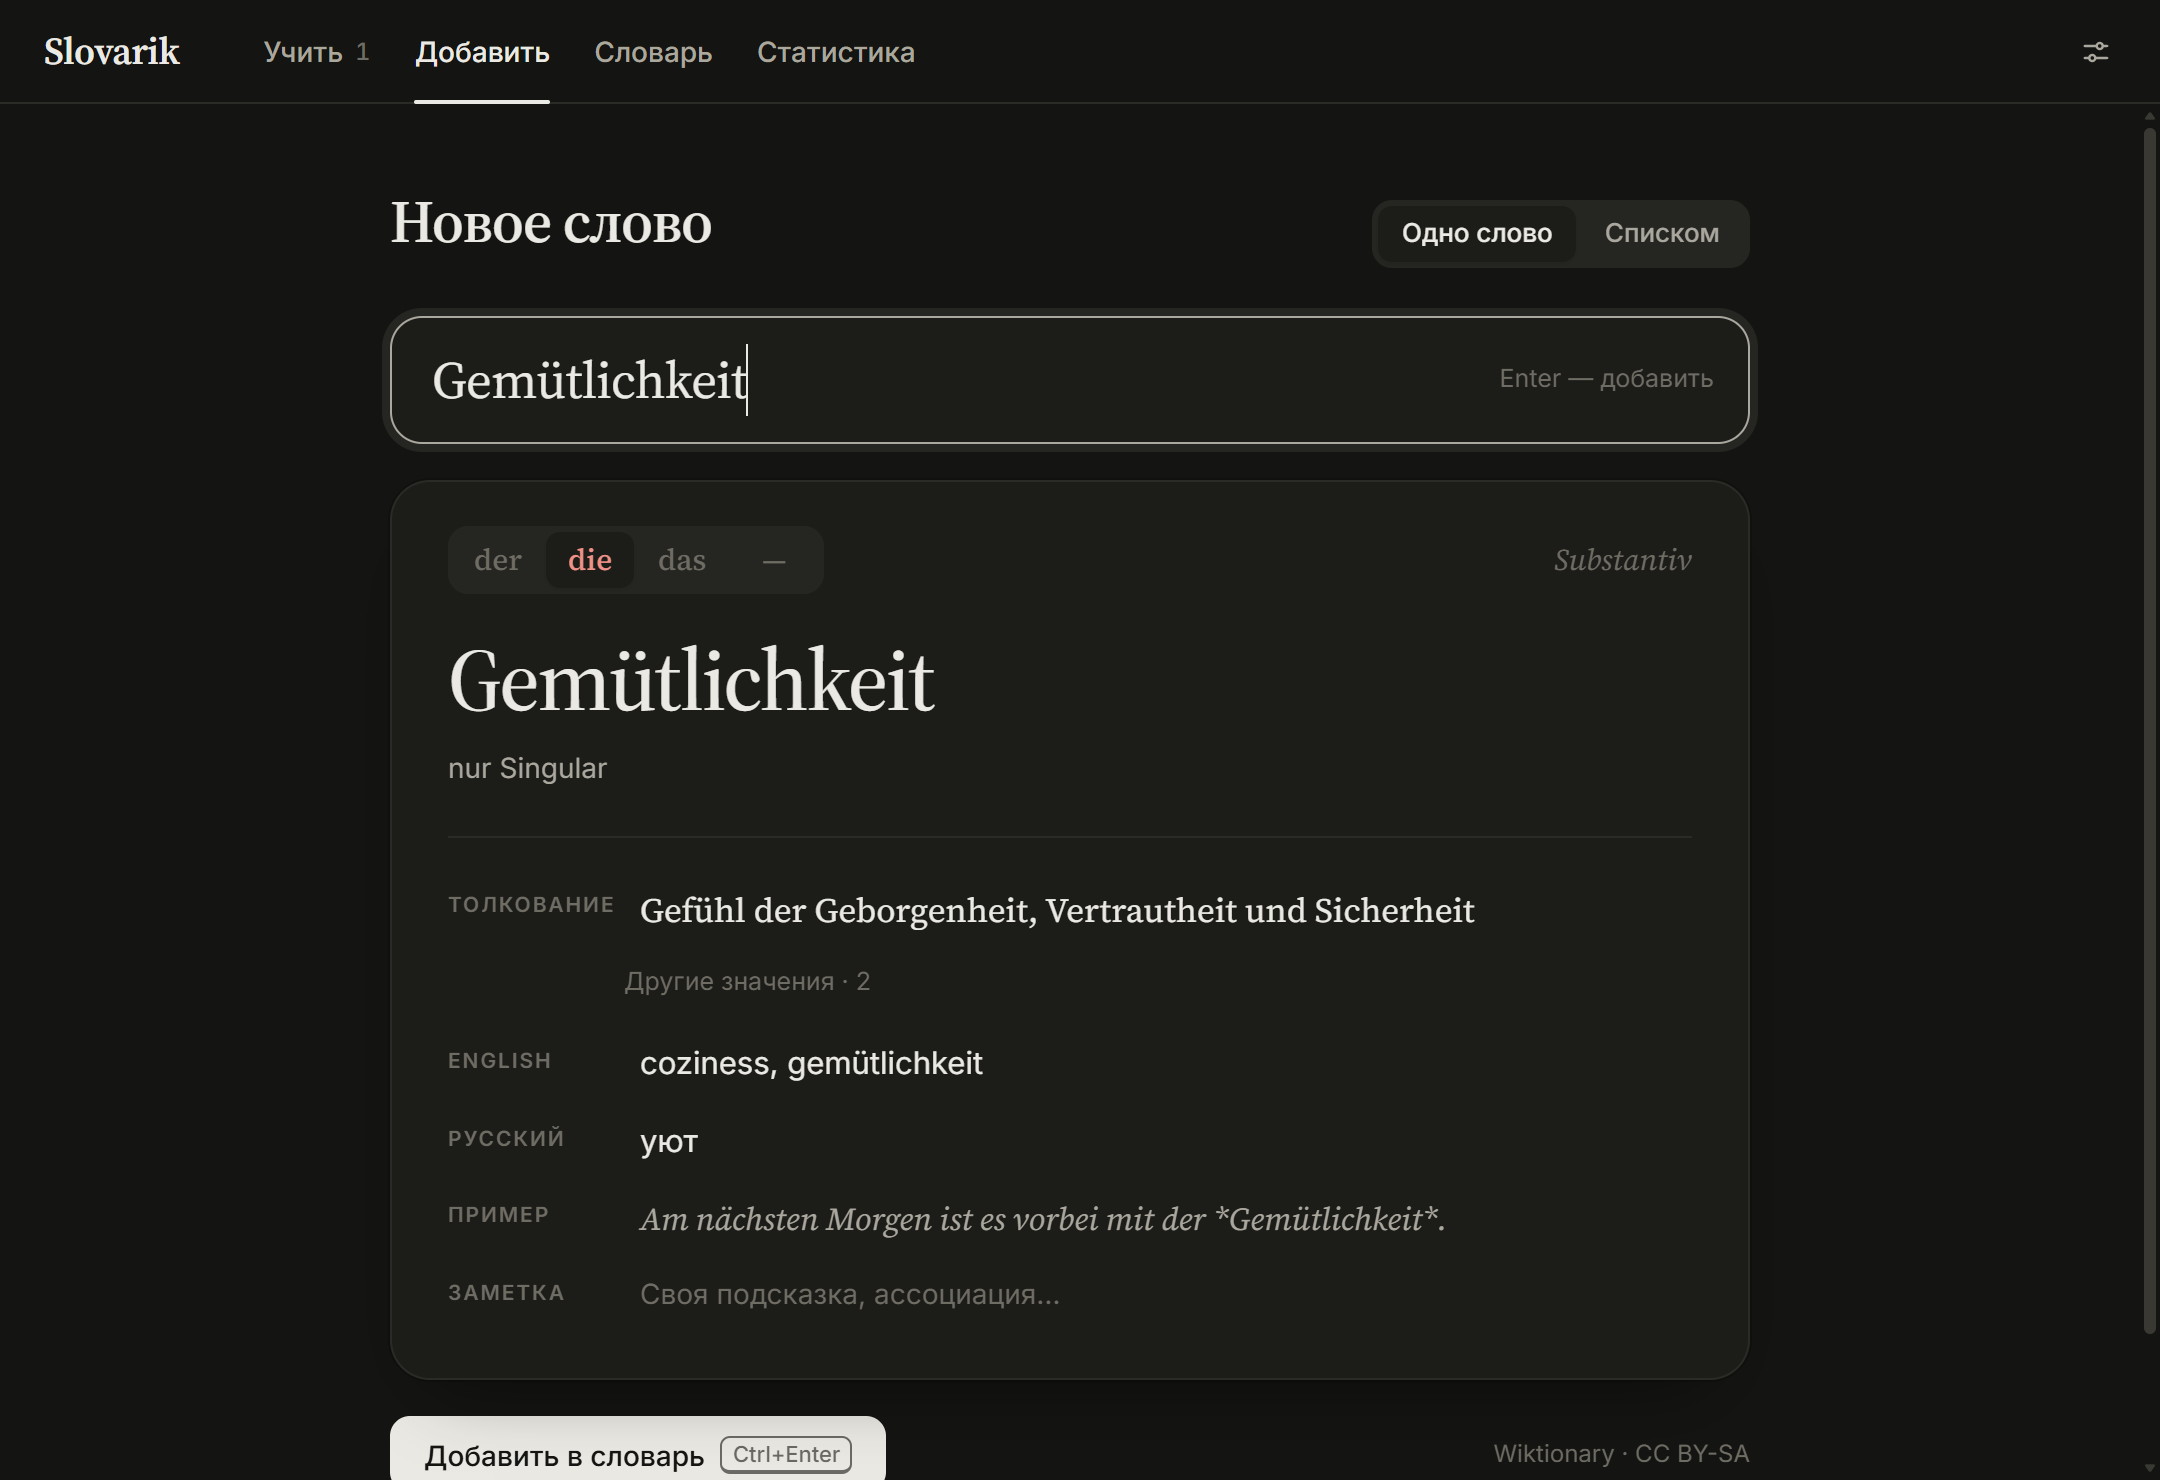
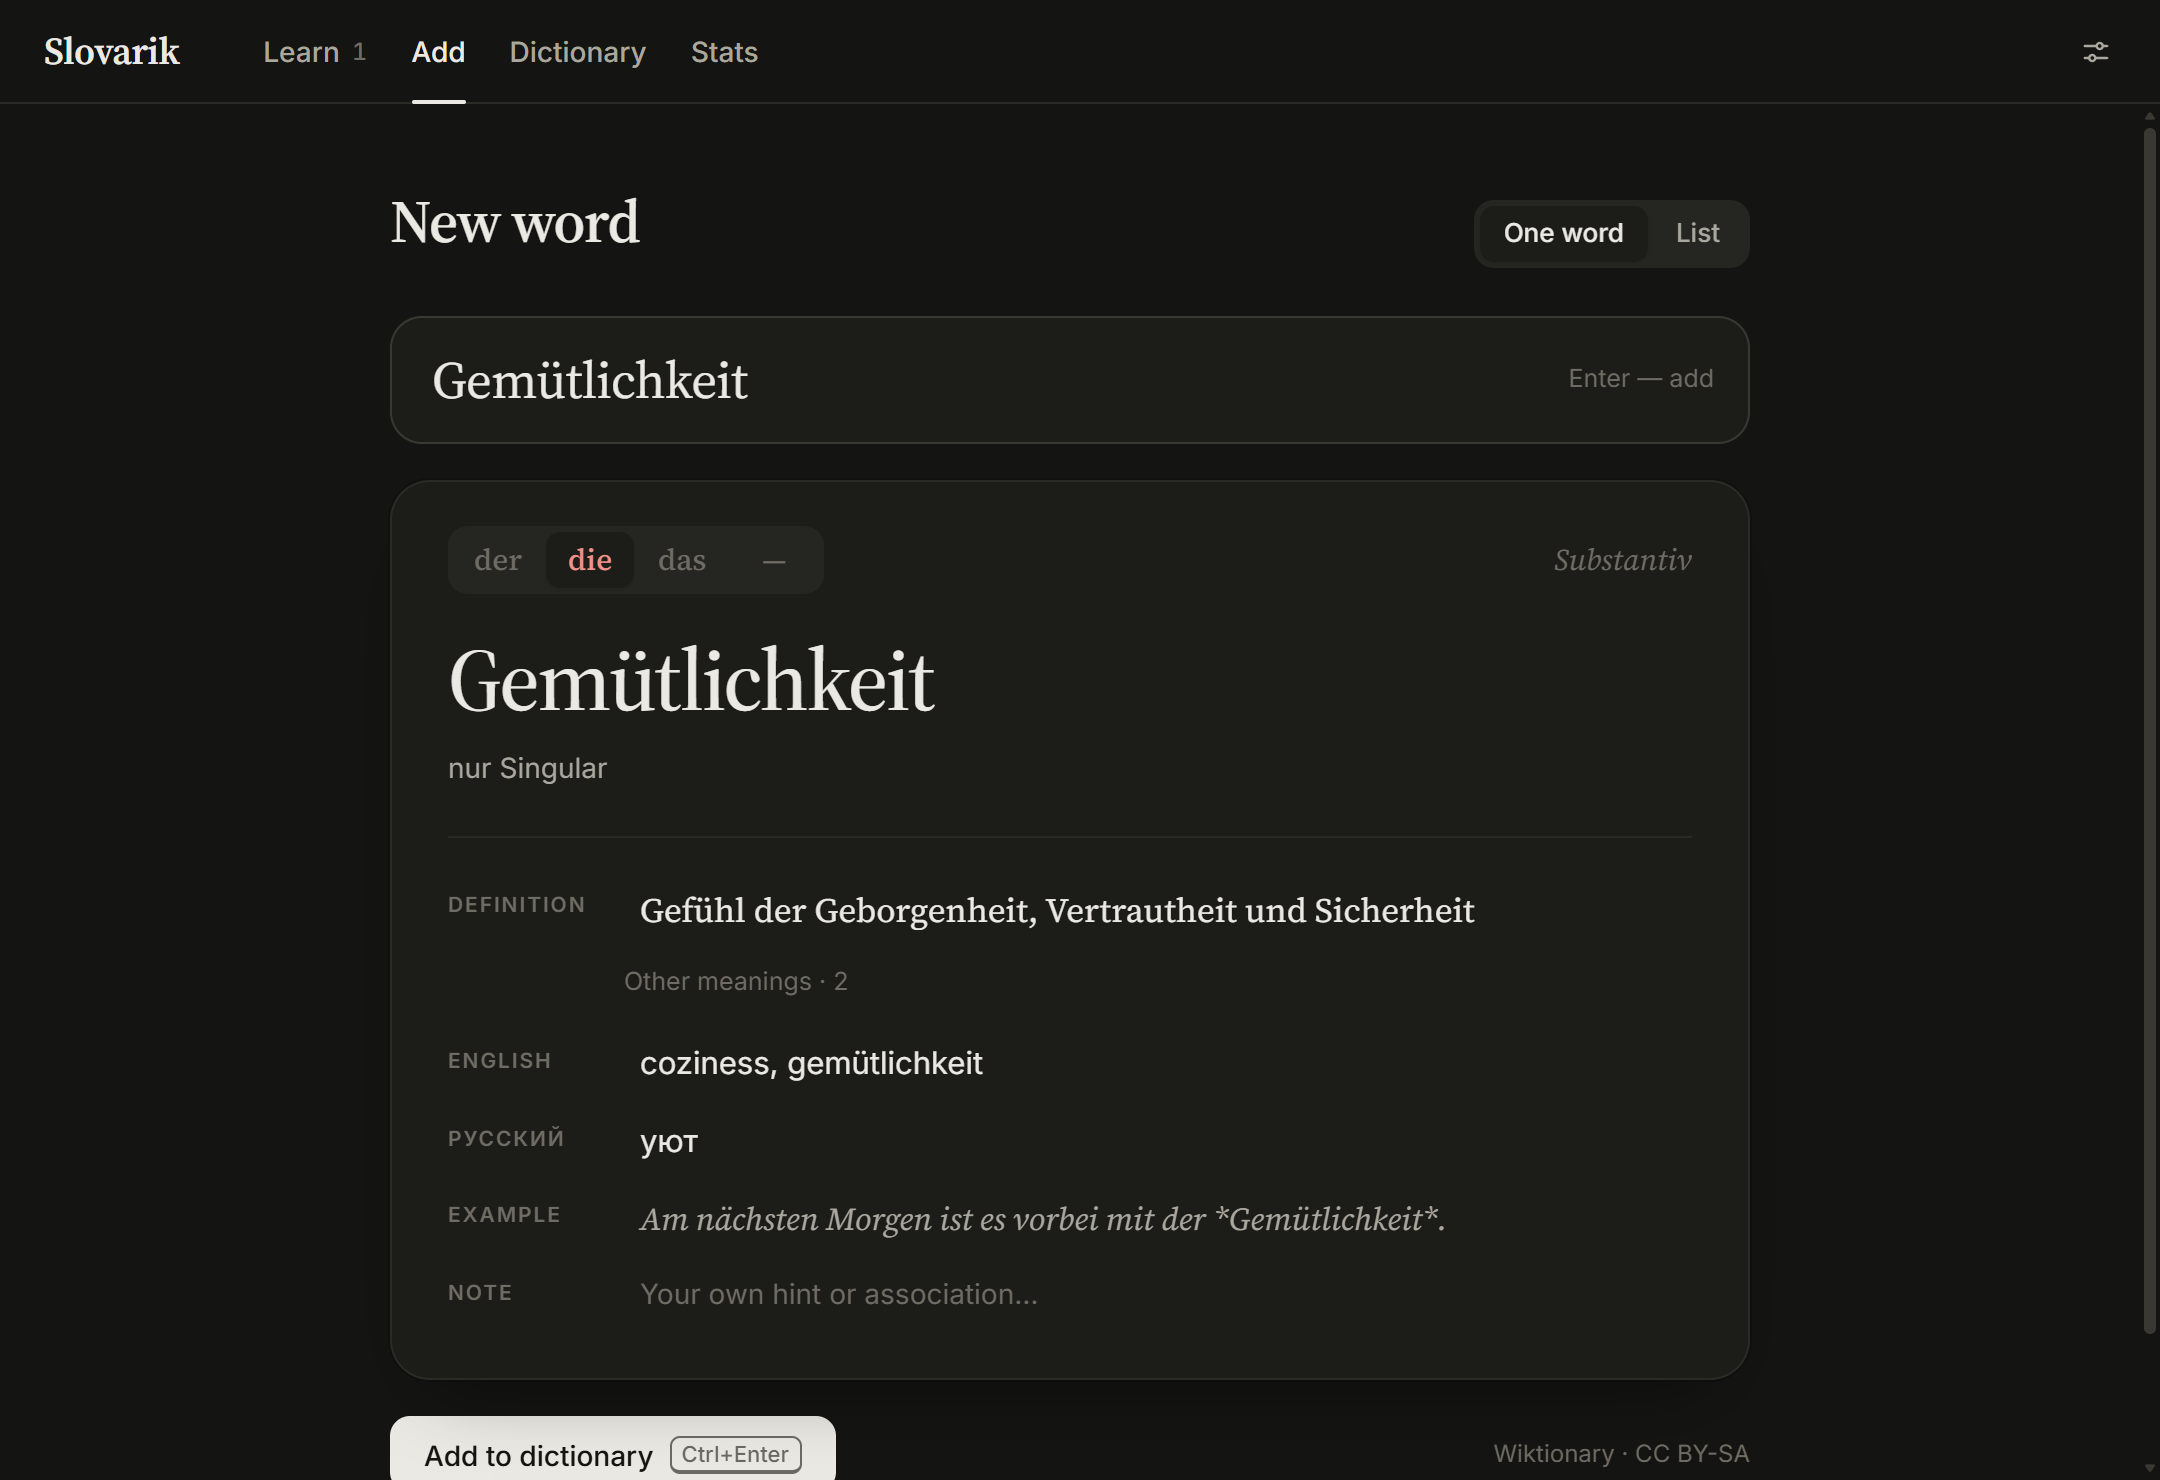
Fix Wiktionary parser on CRLF checkouts, English README
Windows CI checks the test fixtures out with CRLF line endings, which the
parser didn't expect, so the tests failed there. Normalize line endings
before parsing and keep LF in the repository via .gitattributes.

The README is now in English, with English interface screenshots.

diff --git a/src/lib/wikitext.ts b/src/lib/wikitext.ts
@@ -54,7 +54,8 @@ const POS_ALIASES: Record<string, string> = {
 };
 
 export function parsePage(text: string): ParsedPage {
-  const german = germanSection(text);
+  // Wiktionary sends \n, but pages saved on Windows come back with \r\n.
+  const german = germanSection(text.replace(/\r\n?/g, '\n'));
   if (!german) return { entries: [], baseForms: [] };
 
   const entries: Entry[] = [];

diff --git a/README.md b/README.md
@@ -1,51 +1,51 @@
 # Slovarik (Wortschätzli)
 
-Карточки для немецких слов в духе Anki. Вводишь слово — Slovarik сам подставляет толкование на немецком, артикль, формы, пример и перевод на английский и русский. Повторения планирует FSRS — тот же алгоритм, что в современной Anki.
+Anki-style flashcards for German vocabulary. Type a word and Slovarik fills in the rest: a German definition, the article, the forms, an example sentence, and English and Russian translations. Reviews are scheduled with FSRS, the same algorithm modern Anki uses.
 
-![Карточка](docs/review-light.png)
+![Review card](docs/review-light.png)
 
-## Установка
+## Install
 
-**macOS** — через Homebrew:
+**macOS** — with Homebrew:
 
 ```bash
 brew tap NellleT/slovarik https://github.com/NellleT/Slovarik
 brew install --cask slovarik
 ```
 
-**Windows** — скачай `Slovarik_*_x64-setup.exe` со страницы [релизов](https://github.com/NellleT/Slovarik/releases/latest) или поставь через [Scoop](https://scoop.sh) (Homebrew на Windows не работает):
+**Windows** — download `Slovarik_*_x64-setup.exe` from the [latest release](https://github.com/NellleT/Slovarik/releases/latest), or use [Scoop](https://scoop.sh) (Homebrew doesn't run on Windows):
 
 ```bash
 scoop bucket add slovarik https://github.com/NellleT/Slovarik
 scoop install slovarik
 ```
 
-Обновление — `brew upgrade --cask slovarik` или `scoop update slovarik`.
+Update with `brew upgrade --cask slovarik` or `scoop update slovarik`.
 
-> Приложение не подписано платным сертификатом Apple, поэтому Homebrew после установки снимает с него флаг карантина, чтобы macOS разрешила его открыть.
+> The app isn't signed with a paid Apple Developer certificate, so the Homebrew cask clears the quarantine flag after installing. Otherwise macOS would refuse to open it.
 
-## Как это работает
+## How it works
 
-- **Добавление.** Пишешь слово, при желании с артиклем («die Bank») или «sich». Данные берутся из немецкого [Wiktionary](https://de.wiktionary.org); если перевода там нет, подставляется перевод MyMemory. Всё можно поправить перед сохранением. Формы сводятся к словарной: «Häuser» → *das Haus*, «lief» → *laufen*. Можно вставить сразу столбик слов.
-- **Повторение.** Карточка показывает слово, по пробелу открывается ответ. Оцениваешь, насколько легко вспомнил: «Снова», «Трудно», «Хорошо» или «Легко» (клавиши 1–4). По этой оценке FSRS решает, когда показать слово снова: через минуты, дни или месяцы.
-- **Род по цвету:** *der* — синий, *die* — красный, *das* — зелёный. Артикль можно прятать, чтобы вспоминать его самому.
-- **Обратные карточки** (русский → немецкий), произношение системным голосом, статистика, светлая и тёмная тема.
-- **Язык интерфейса** — русский, English или Deutsch (в настройках).
-- **Данные** хранятся только на твоём компьютере, в одном файле `slovarik.json`; рядом лежит ежедневная резервная копия. Есть экспорт и импорт JSON и CSV.
+- **Adding words.** Type a word — with its article if you like (“die Bank”), or with “sich”. Everything comes from the German [Wiktionary](https://de.wiktionary.org). If Wiktionary has no translation, MyMemory fills it in. You can edit any field before saving. Inflected forms lead back to the dictionary form: “Häuser” → *das Haus*, “lief” → *laufen*. You can also paste a whole list of words at once.
+- **Reviewing.** A card shows the word; press Space to see the answer. Then rate how well you remembered it: Again, Hard, Good or Easy (keys 1–4). FSRS uses that rating to decide when you'll see the word next: in minutes, days or months.
+- **Gender by color:** *der* is blue, *die* is red, *das* is green. You can hide the article on the front of the card and recall it yourself.
+- **Also included:** reverse cards (Russian → German), pronunciation with the system voice, stats, and light and dark themes.
+- **Interface language:** English, Deutsch or Русский — switch it in Settings.
+- **Your data stays on your computer**, in a single `slovarik.json` file with a daily backup next to it. Export and import as JSON or CSV.
 
-![Добавление слова](docs/add-dark.png)
+![Adding a word](docs/add-dark.png)
 
-## Сборка из исходников
+## Building from source
 
-Нужны Node.js 20+ и [Rust](https://rustup.rs).
+You need Node.js 20+ and [Rust](https://rustup.rs).
 
 ```bash
 npm install
-npm run tauri dev     # запустить
-npm test              # тесты
-npm run tauri build   # установщик
+npm run tauri dev     # run the app
+npm test              # tests
+npm run tauri build   # build an installer
 ```
 
-Новая версия: `npm version 0.2.0 && git push --follow-tags`. GitHub Actions соберёт приложения для macOS и Windows, опубликует релиз и обновит формулы Homebrew и Scoop.
+To release a new version, run `npm version 0.2.0 && git push --follow-tags`. GitHub Actions builds the macOS and Windows apps, publishes the release and updates the Homebrew and Scoop manifests.
 
-Код распространяется по лицензии MIT, данные Wiktionary — по CC BY-SA 4.0.
+The code is MIT-licensed. Wiktionary content is available under CC BY-SA 4.0.
